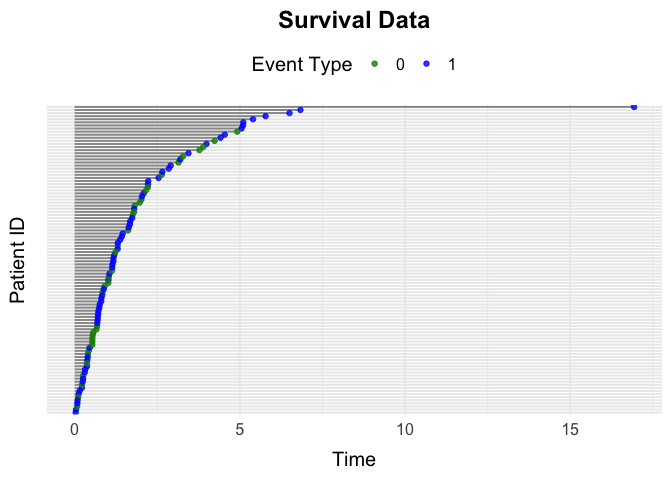
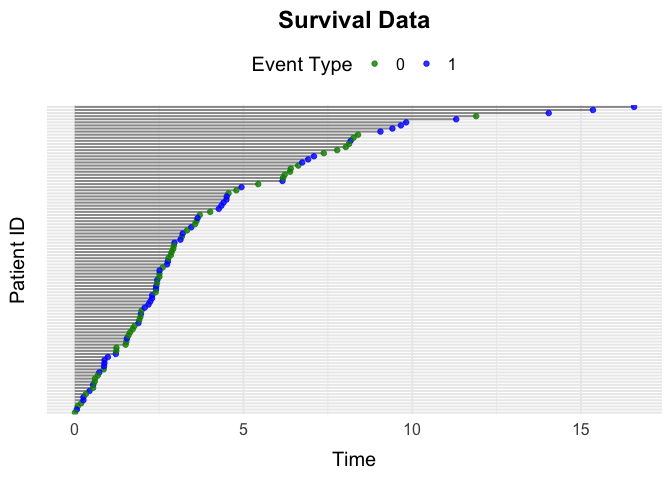
Addition to readme

diff --git a/README.md b/README.md
@@ -93,12 +93,12 @@ head(data)
 #> Key: <ID>
 #>       ID      Time Delta        L0    A0    L1         L2    N0    N1    N2
 #>    <int>     <num> <num>     <num> <int> <num>      <num> <num> <num> <num>
-#> 1:     1 5.8835851     1 0.0482511     1     0  0.9036369     0     1     0
-#> 2:     2 2.8236241     0 0.2186699     0     0  1.0631460     1     0     0
-#> 3:     3 2.0835582     2 0.5021846     0     0 -0.2266280     0     0     1
-#> 4:     3 2.0858978     1 0.5021846     0     0 -0.2266280     0     1     1
-#> 5:     4 2.9572284     0 0.4053148     1     0  1.2534397     1     0     0
-#> 6:     5 0.3670054     1 0.3986500     1     0 -0.9204445     0     1     0
+#> 1:     1 0.8848577     0 0.0482511     1     0  0.9036369     1     0     0
+#> 2:     2 1.1833330     0 0.2186699     0     0  1.0631460     1     0     0
+#> 3:     3 2.1956540     1 0.5021846     0     0 -0.2266280     0     1     0
+#> 4:     4 0.2193077     2 0.4053148     1     0  1.2534397     0     0     1
+#> 5:     4 0.4662299     2 0.4053148     1     0  1.2534397     0     0     2
+#> 6:     4 0.7129790     1 0.4053148     1     0  1.2534397     0     1     2
 #>       N3    N4
 #>    <num> <num>
 #> 1:     0     0
@@ -132,20 +132,20 @@ head(data_int)
 #> Key: <ID>
 #>       ID      Time Delta        L0    A0    L1         L2    N0    N1    N2
 #>    <int>     <num> <num>     <num> <int> <num>      <num> <num> <num> <num>
-#> 1:     1 5.8835851     1 0.0482511     1     0  0.9036369     0     0     0
-#> 2:     2 2.8236241     0 0.2186699     0     0  1.0631460     0     0     0
-#> 3:     3 2.0835582     2 0.5021846     0     0 -0.2266280     0     0     0
-#> 4:     3 2.0858978     1 0.5021846     0     0 -0.2266280     0     0     1
-#> 5:     4 2.9572284     0 0.4053148     1     0  1.2534397     0     0     0
-#> 6:     5 0.3670054     1 0.3986500     1     0 -0.9204445     0     0     0
-#>       N3    N4     k   tstart     tstop
-#>    <num> <num> <int>    <num>     <num>
-#> 1:     0     0     1 0.000000 5.8835851
-#> 2:     0     0     1 0.000000 2.8236241
-#> 3:     0     0     1 0.000000 2.0835582
-#> 4:     0     0     2 2.083558 2.0858978
-#> 5:     0     0     1 0.000000 2.9572284
-#> 6:     0     0     1 0.000000 0.3670054
+#> 1:     1 0.8848577     0 0.0482511     1     0  0.9036369     0     0     0
+#> 2:     2 1.1833330     0 0.2186699     0     0  1.0631460     0     0     0
+#> 3:     3 2.1956540     1 0.5021846     0     0 -0.2266280     0     0     0
+#> 4:     4 0.2193077     2 0.4053148     1     0  1.2534397     0     0     0
+#> 5:     4 0.4662299     2 0.4053148     1     0  1.2534397     0     0     1
+#> 6:     4 0.7129790     1 0.4053148     1     0  1.2534397     0     0     2
+#>       N3    N4     k    tstart     tstop
+#>    <num> <num> <int>     <num>     <num>
+#> 1:     0     0     1 0.0000000 0.8848577
+#> 2:     0     0     1 0.0000000 1.1833330
+#> 3:     0     0     1 0.0000000 2.1956540
+#> 4:     0     0     1 0.0000000 0.2193077
+#> 5:     0     0     2 0.2193077 0.4662299
+#> 6:     0     0     3 0.4662299 0.7129790
 ```
 
 The data contains the same information as the original data, only now
@@ -160,8 +160,7 @@ following code
 ``` r
 library(survival)
 # Process 0
-survfit0 <- coxph(Surv(tstart, tstop, Delta == 0) ~ 
-                    L0 + A0 + 
+survfit0 <- coxph(Surv(tstart, tstop, Delta == 0) ~ L0 + A0 + 
                     as.numeric(N2 > 0) +
                     as.numeric(N3 > 0) + 
                     as.numeric(N4 > 0) +
@@ -192,6 +191,17 @@ plot shows the event history of the 100 first rows of data, the
 different colors of the dots illustrate the different events. The
 $x$-axis is the timeline.
 
+### Specifying an entry in the beta matrix with use of override_beta
+
+We can specify an entry in the beta matrix with use of the argument
+`override_beta`. For example the following code sets the effect of L0 on
+the processes N0 and N1 equal to 0.
+
+``` r
+data <- simEventData(N = 10000, beta = beta, add_cov = add_cov, at_risk = at_risk,
+                     override_beta = list("L0" = c("N0" = 0, "N1" = 0)))
+```
+
 ## Example 2: Survival Data
 
 A special case of the general setting is the survival setting, one can
@@ -202,7 +212,7 @@ data <- simSurvData(100)
 plotEventData(data, title = "Survival Data")
 ```
 
-<img src="man/figures/README-unnamed-chunk-12-1.png" width="100%" />
+<img src="man/figures/README-unnamed-chunk-13-1.png" width="100%" />
 
 One can again specify the effects of $A_0$ and $L_0$ on the risk of
 death and censoring by the `beta` argument.
@@ -231,7 +241,7 @@ data <- simSurvData(100, beta = beta, eta = eta, nu = nu)
 plotEventData(data, title = "Survival Data")
 ```
 
-<img src="man/figures/README-unnamed-chunk-15-1.png" width="100%" />
+<img src="man/figures/README-unnamed-chunk-16-1.png" width="100%" />
 
 ## Example 3: Competing Risk Data
 
@@ -244,7 +254,7 @@ data <- simCRdata(100)
 plotEventData(data, title = "Competing Risk Data")
 ```
 
-<img src="man/figures/README-unnamed-chunk-16-1.png" width="100%" />
+<img src="man/figures/README-unnamed-chunk-17-1.png" width="100%" />
 
 ## Example 4: Type 2 Diabetes
 
@@ -272,7 +282,7 @@ data <- simT2D(N = 100,
 plotEventData(data, title = "T2D data")
 ```
 
-<img src="man/figures/README-unnamed-chunk-18-1.png" width="100%" />
+<img src="man/figures/README-unnamed-chunk-19-1.png" width="100%" />
 
 ## Example 5: Unobserved Covariate Setting
 
@@ -316,4 +326,4 @@ operation/treatment event (op = 1), where there is a censoring process
 plotEventData(data, title = "Confounding setting")
 ```
 
-<img src="man/figures/README-unnamed-chunk-22-1.png" width="100%" />
+<img src="man/figures/README-unnamed-chunk-23-1.png" width="100%" />
